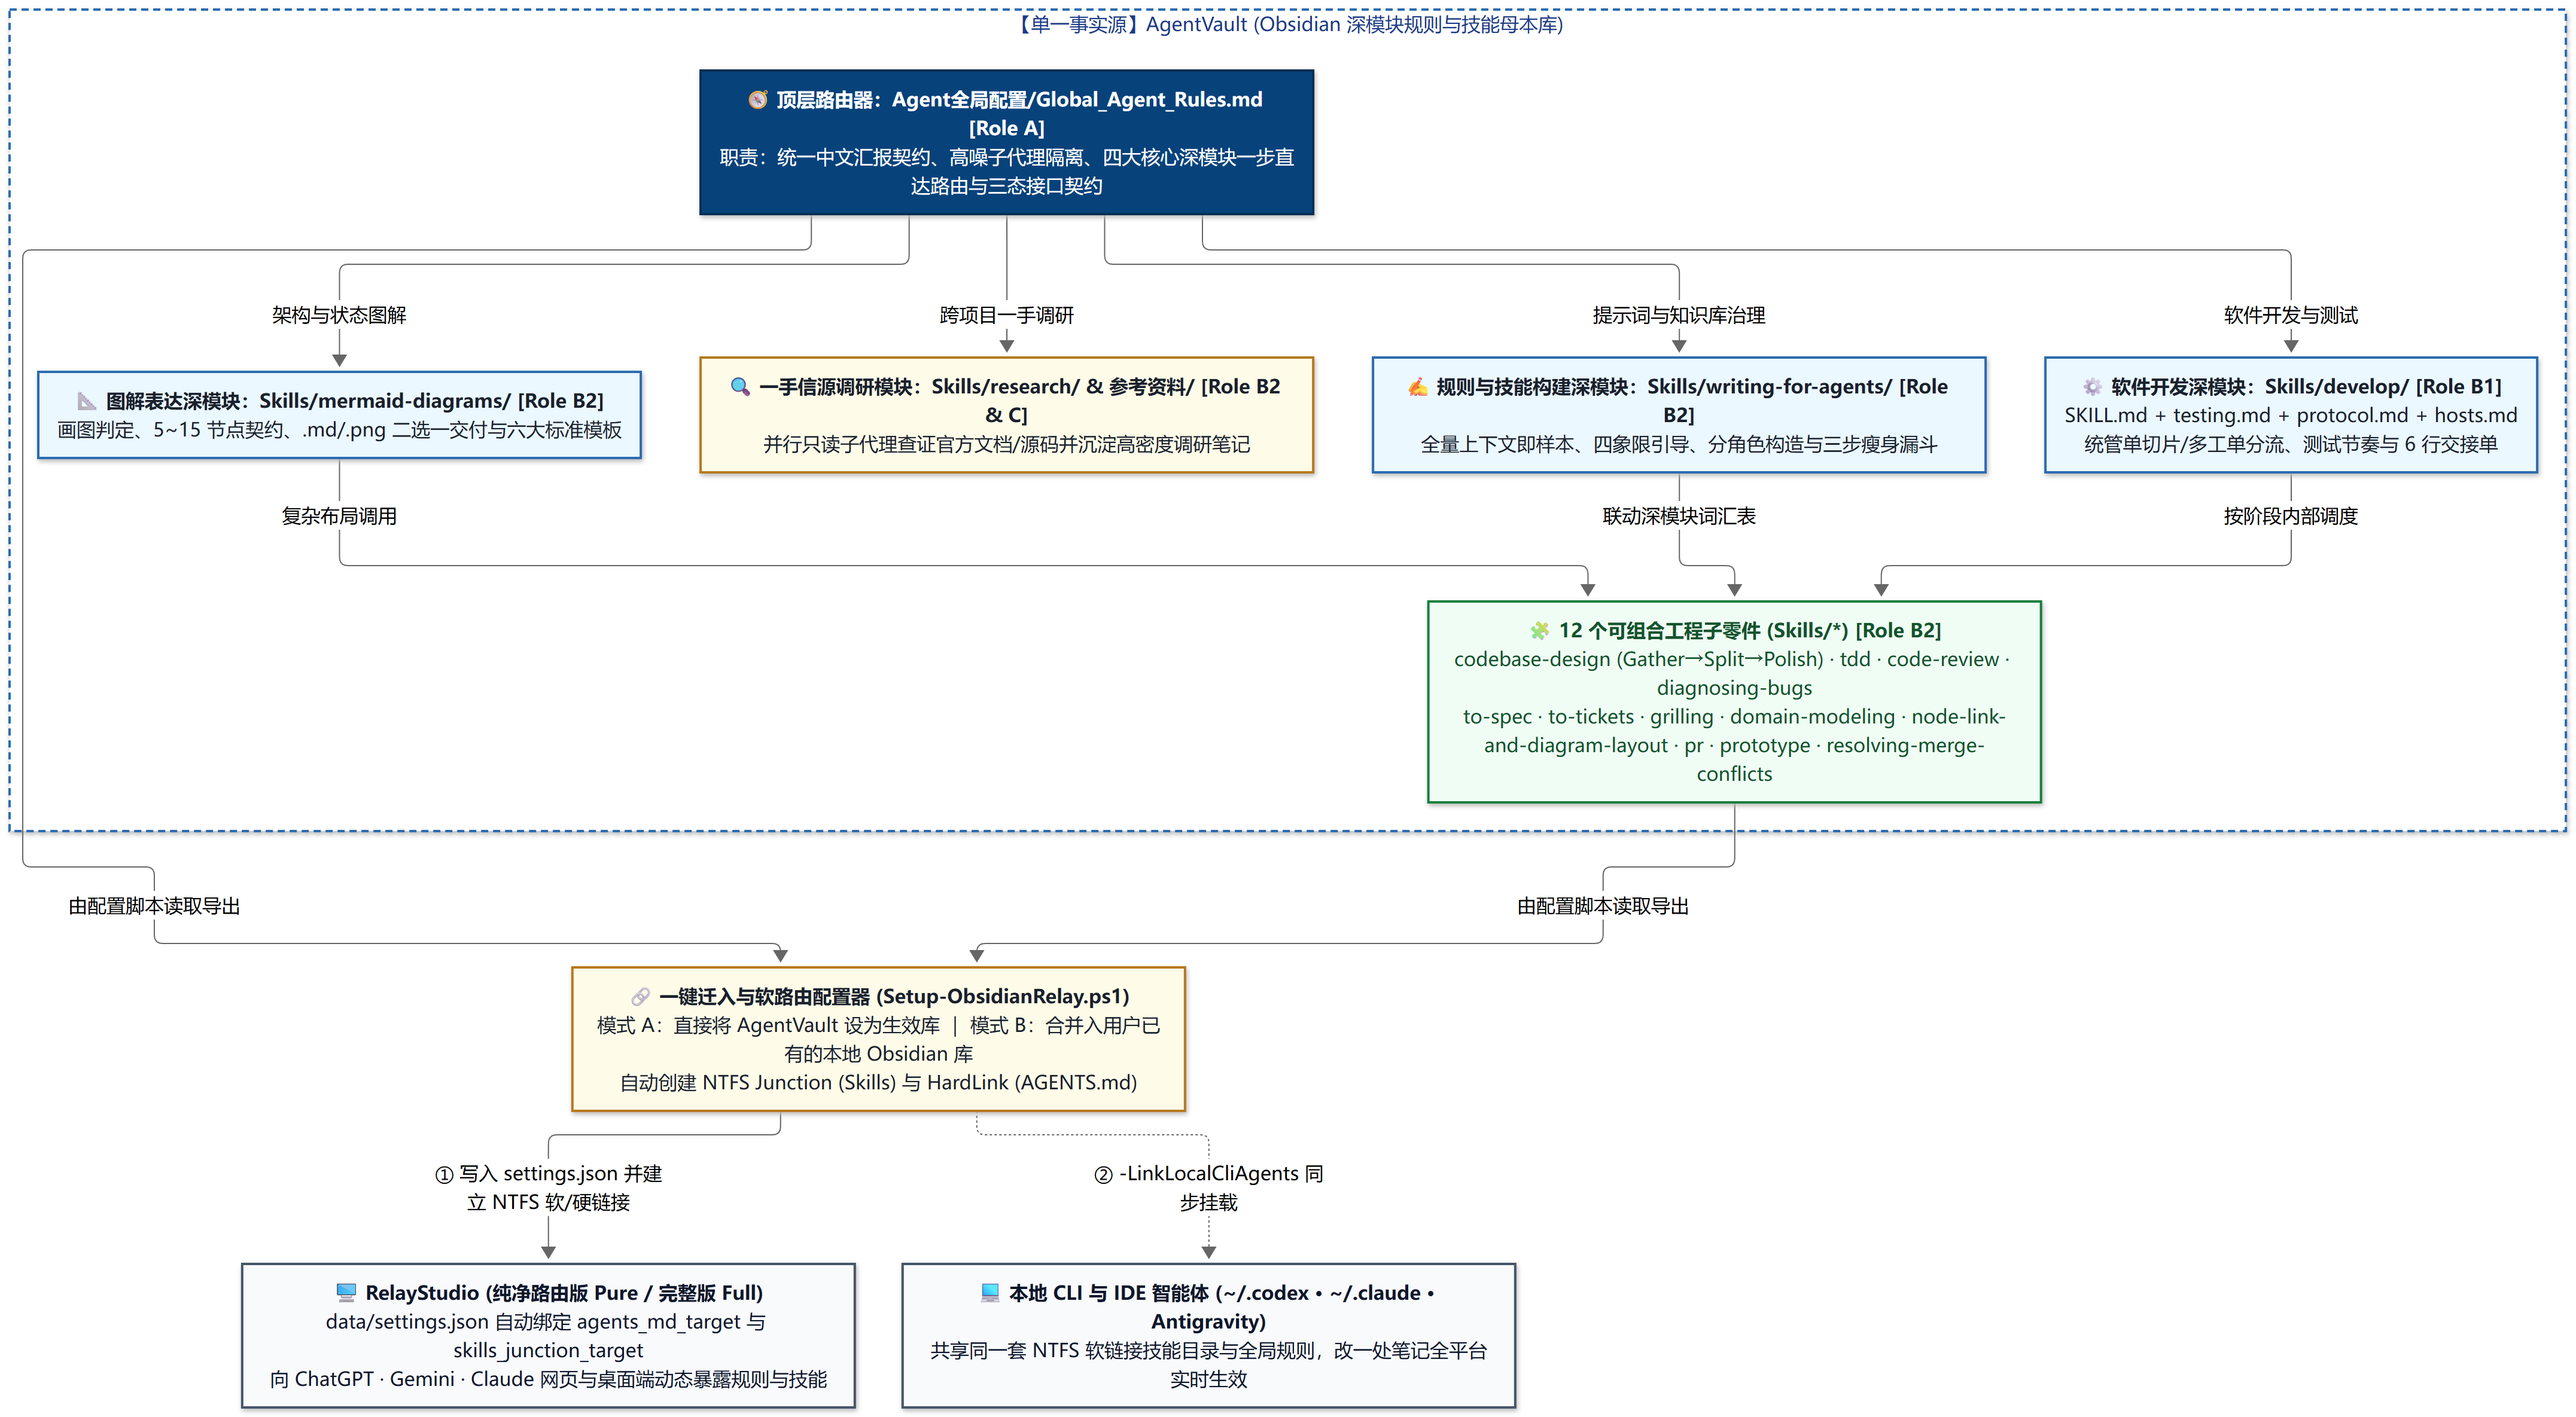
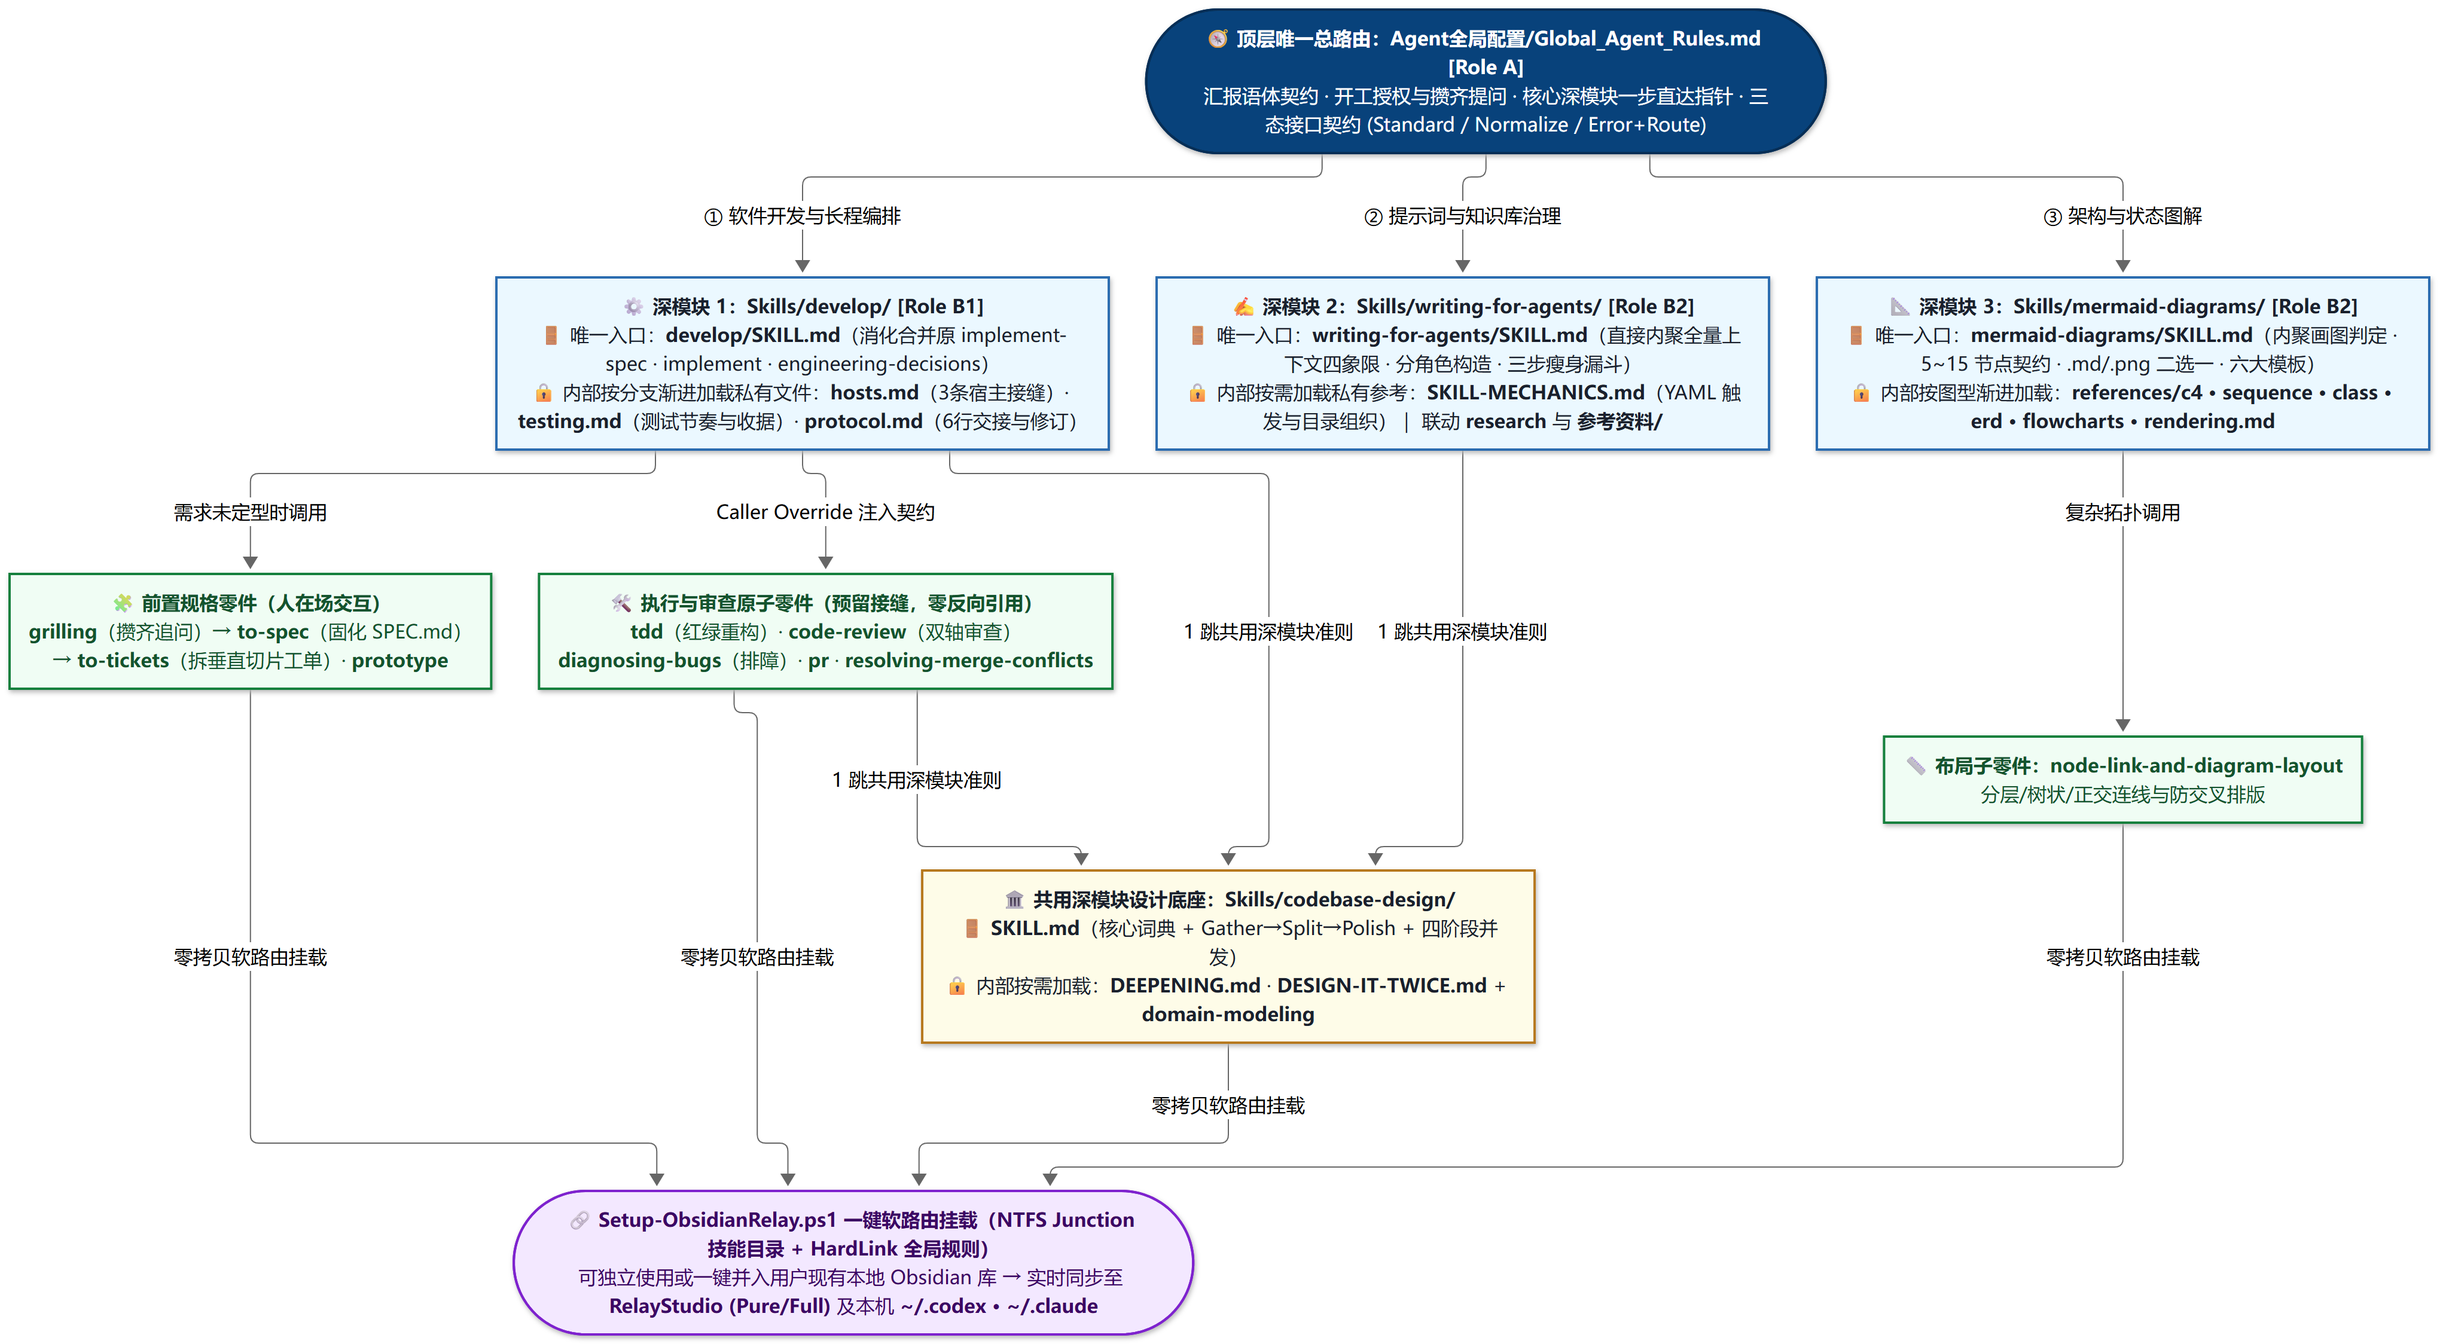
docs: refine deep-module architecture diagram and add whitebox internals diagram

diff --git a/README.md b/README.md
@@ -6,11 +6,21 @@
 
 ---
 
-## 一、全局版图与核心目录
+## 一、全局版图与深模块内部白盒机制
+
+### 1.1 全局深模块分层与多宿主软路由架构
 
 <p align="center">
   <img src="assets/diagram-agentvault-architecture.png" width="98%" alt="AgentVault 深模块分层架构与多宿主软路由拓扑图" />
 </p>
+
+### 1.2 深模块内部白盒机制：以 `Skills/develop/` 为例看如何“消化旧技能、按接缝调子零件”
+
+<p align="center">
+  <img src="assets/diagram-deep-module-internals.png" width="96%" alt="Skills/develop 深模块内部白盒机制：吸收旧技能与 Caller Override 接缝注入" />
+</p>
+
+### 1.3 深模块三态接口契约与结构化转接（`Standard / Normalize / Error + Route`）
 
 <p align="center">
   <img src="assets/diagram-three-state-contract.png" width="92%" alt="深模块三态接口契约与结构化转接流转图" />
@@ -19,11 +29,11 @@
 | 目录 / 入口文件 | 角色定位 | 说明 |
 | :--- | :--- | :--- |
 | **[`Agent全局配置/Global_Agent_Rules.md`](Agent全局配置/Global_Agent_Rules.md)** | 全库唯一顶层路由器（Role A） | 统一汇报语体契约、求真溯源与高噪隔离、四大核心深模块一步直达路由以及三态接口契约（`Standard / Normalize / Error + Route`） |
-| **[`Skills/develop/SKILL.md`](Skills/develop/SKILL.md)** | 软件开发与长程编排深模块（Role B1） | 唯一软件开发入口：按规模自动分流单切片流与多工单 DAG 流，内聚测试节奏（[`testing.md`](Skills/develop/testing.md)）、6 行交接与修订协议（[`protocol.md`](Skills/develop/protocol.md)）及多宿主适配（[`hosts.md`](Skills/develop/hosts.md)） |
-| **[`Skills/codebase-design/SKILL.md`](Skills/codebase-design/SKILL.md)** | 深模块设计方法论（Role B2） | `1. Gather → 2. Split → 3. Polish` 深模块构造决策树与多工单并发四阶段防线 |
-| **[`Skills/writing-for-agents/SKILL.md`](Skills/writing-for-agents/SKILL.md)** | 提示词、技能与知识库构建深模块（Role B2） | 全量上下文即样本、四象限引导、分角色（A/B1/B2/C）深模块构造与三步瘦身漏斗 |
-| **[`Skills/mermaid-diagrams/SKILL.md`](Skills/mermaid-diagrams/SKILL.md)** | 系统架构与图解表达深模块（Role B2） | 画图判定、5～15 节点规模契约、`.md`/`.png` 二选一交付与 C4 / 时序 / 状态 / 瑞士奶酪六大标准模板 |
-| **[`Skills/`](Skills/) 其余 12 个工程子零件** | 原子执行与评审零件（Role B2） | 包含 `tdd`、`code-review`、`diagnosing-bugs`、`to-spec`、`to-tickets`、`grilling`、`domain-modeling`、`node-link-and-diagram-layout`、`research`、`resolving-merge-conflicts`、`pr`、`prototype` |
+| **[`Skills/develop/SKILL.md`](Skills/develop/SKILL.md)** | 软件开发与长程编排深模块（Role B1） | 唯一软件开发入口：已消化合并原 `implement-spec`、`implement`、`engineering-decisions`，按规模自动分流单切片流与多工单 DAG 流，内部按分支渐进加载测试节奏（[`testing.md`](Skills/develop/testing.md)）、6 行交接与修订协议（[`protocol.md`](Skills/develop/protocol.md)）及多宿主适配（[`hosts.md`](Skills/develop/hosts.md)） |
+| **[`Skills/codebase-design/SKILL.md`](Skills/codebase-design/SKILL.md)** | 深模块设计方法论底座（Role B2） | `1. Gather → 2. Split → 3. Polish` 深模块构造决策树与多工单并发四阶段防线，内部按需加载 [`DEEPENING.md`](Skills/codebase-design/DEEPENING.md) 与 [`DESIGN-IT-TWICE.md`](Skills/codebase-design/DESIGN-IT-TWICE.md) |
+| **[`Skills/writing-for-agents/SKILL.md`](Skills/writing-for-agents/SKILL.md)** | 提示词、技能与知识库构建深模块（Role B2） | 全量上下文即样本、四象限引导、分角色（A/B1/B2/C）深模块构造与三步瘦身漏斗，内部按需加载 [`SKILL-MECHANICS.md`](Skills/writing-for-agents/SKILL-MECHANICS.md) |
+| **[`Skills/mermaid-diagrams/SKILL.md`](Skills/mermaid-diagrams/SKILL.md)** | 系统架构与图解表达深模块（Role B2） | 画图判定、5～15 节点规模契约、`.md`/`.png` 二选一交付与 C4 / 时序 / 状态 / 瑞士奶酪六大标准模板，内部按图型加载 `references/*.md` |
+| **[`Skills/`](Skills/) 其余 12 个工程子零件** | 原子执行与评审零件（Role B2） | 包含 `tdd`、`code-review`、`diagnosing-bugs`、`to-spec`、`to-tickets`、`grilling`、`domain-modeling`、`node-link-and-diagram-layout`、`research`、`resolving-merge-conflicts`、`pr`、`prototype`（预留 `Caller Override` 接缝，零反向引用上层编排器） |
 | **[`参考资料/00 参考资料导览.md`](参考资料/00%20参考资料导览.md)** | 软件设计调研笔记（Role C） | 收录面向过程/面向对象/信息隐藏演进调研，以及复杂度控制、深模块构造与多工单并发设计深度调研 |
 | **[`Setup-ObsidianRelay.ps1`](Setup-ObsidianRelay.ps1)** | 一键迁入与软路由配置器 | 支持将本库合并进你已有的本地 Obsidian 仓库，并自动将 RelayStudio（含纯净路由版 `pure-portable`）软路由挂载至该 Obsidian 仓库 |
 
